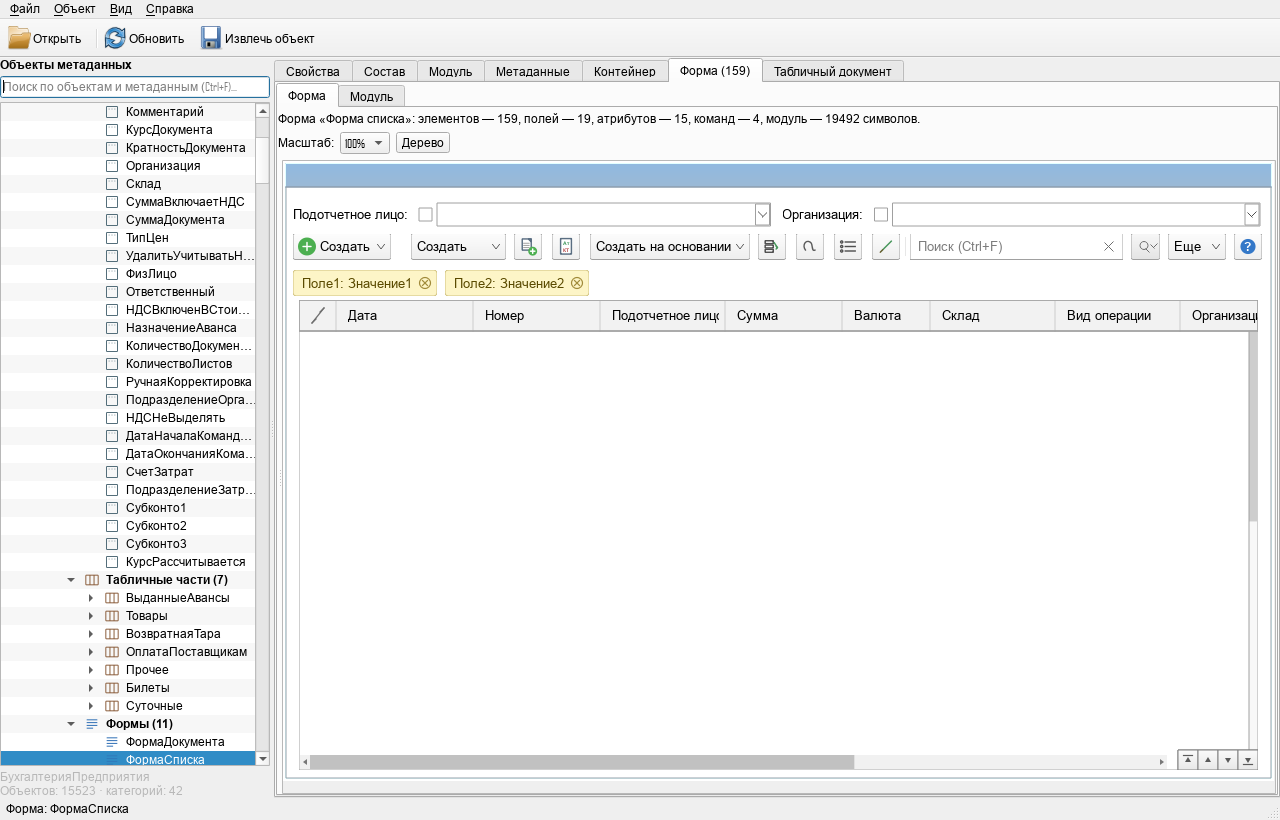
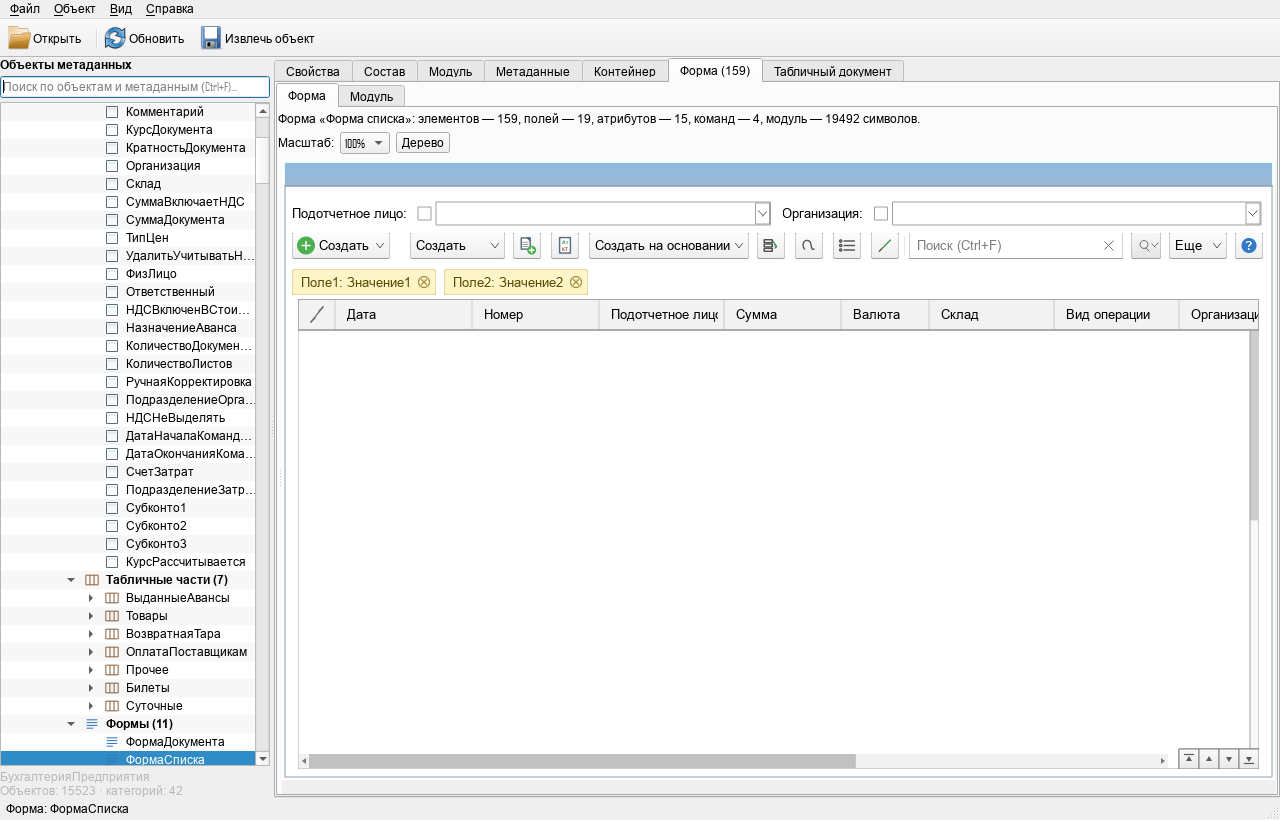
fix(forms): окно формы без серой рамки прокрутки

diff --git a/src/gui/FormView.cpp b/src/gui/FormView.cpp
@@ -1760,6 +1760,9 @@ FormView::FormView(QWidget *parent)
 
     auto *scroll = new QScrollArea(m_splitter);
     scroll->setWidgetResizable(false);
+    scroll->setFrameShape(QFrame::NoFrame);
+    scroll->setContentsMargins(0, 0, 0, 0);
+    scroll->viewport()->setContentsMargins(0, 0, 0, 0);
     scroll->setAlignment(Qt::AlignTop | Qt::AlignLeft);
     m_preview = new FormPreviewWidget(scroll);
     scroll->setWidget(m_preview);

diff --git a/CHANGELOG.md b/CHANGELOG.md
@@ -123,6 +123,8 @@
   и соседних команд.
 - Строки формы выровнены по эталону: верхний отступ уменьшен, шапка
   таблицы стала 31 px, тексты шапки и колонок совпадают по вертикали.
+- Убрана серая рамка области прокрутки: окно формы прилегает к панели,
+  как на скриншоте конфигуратора.
 - В формах элементов справочников добавлены стандартные команды
   «Записать и закрыть» и «Записать»; командная панель таких форм
   определяется и без отдельной группы кнопок.
